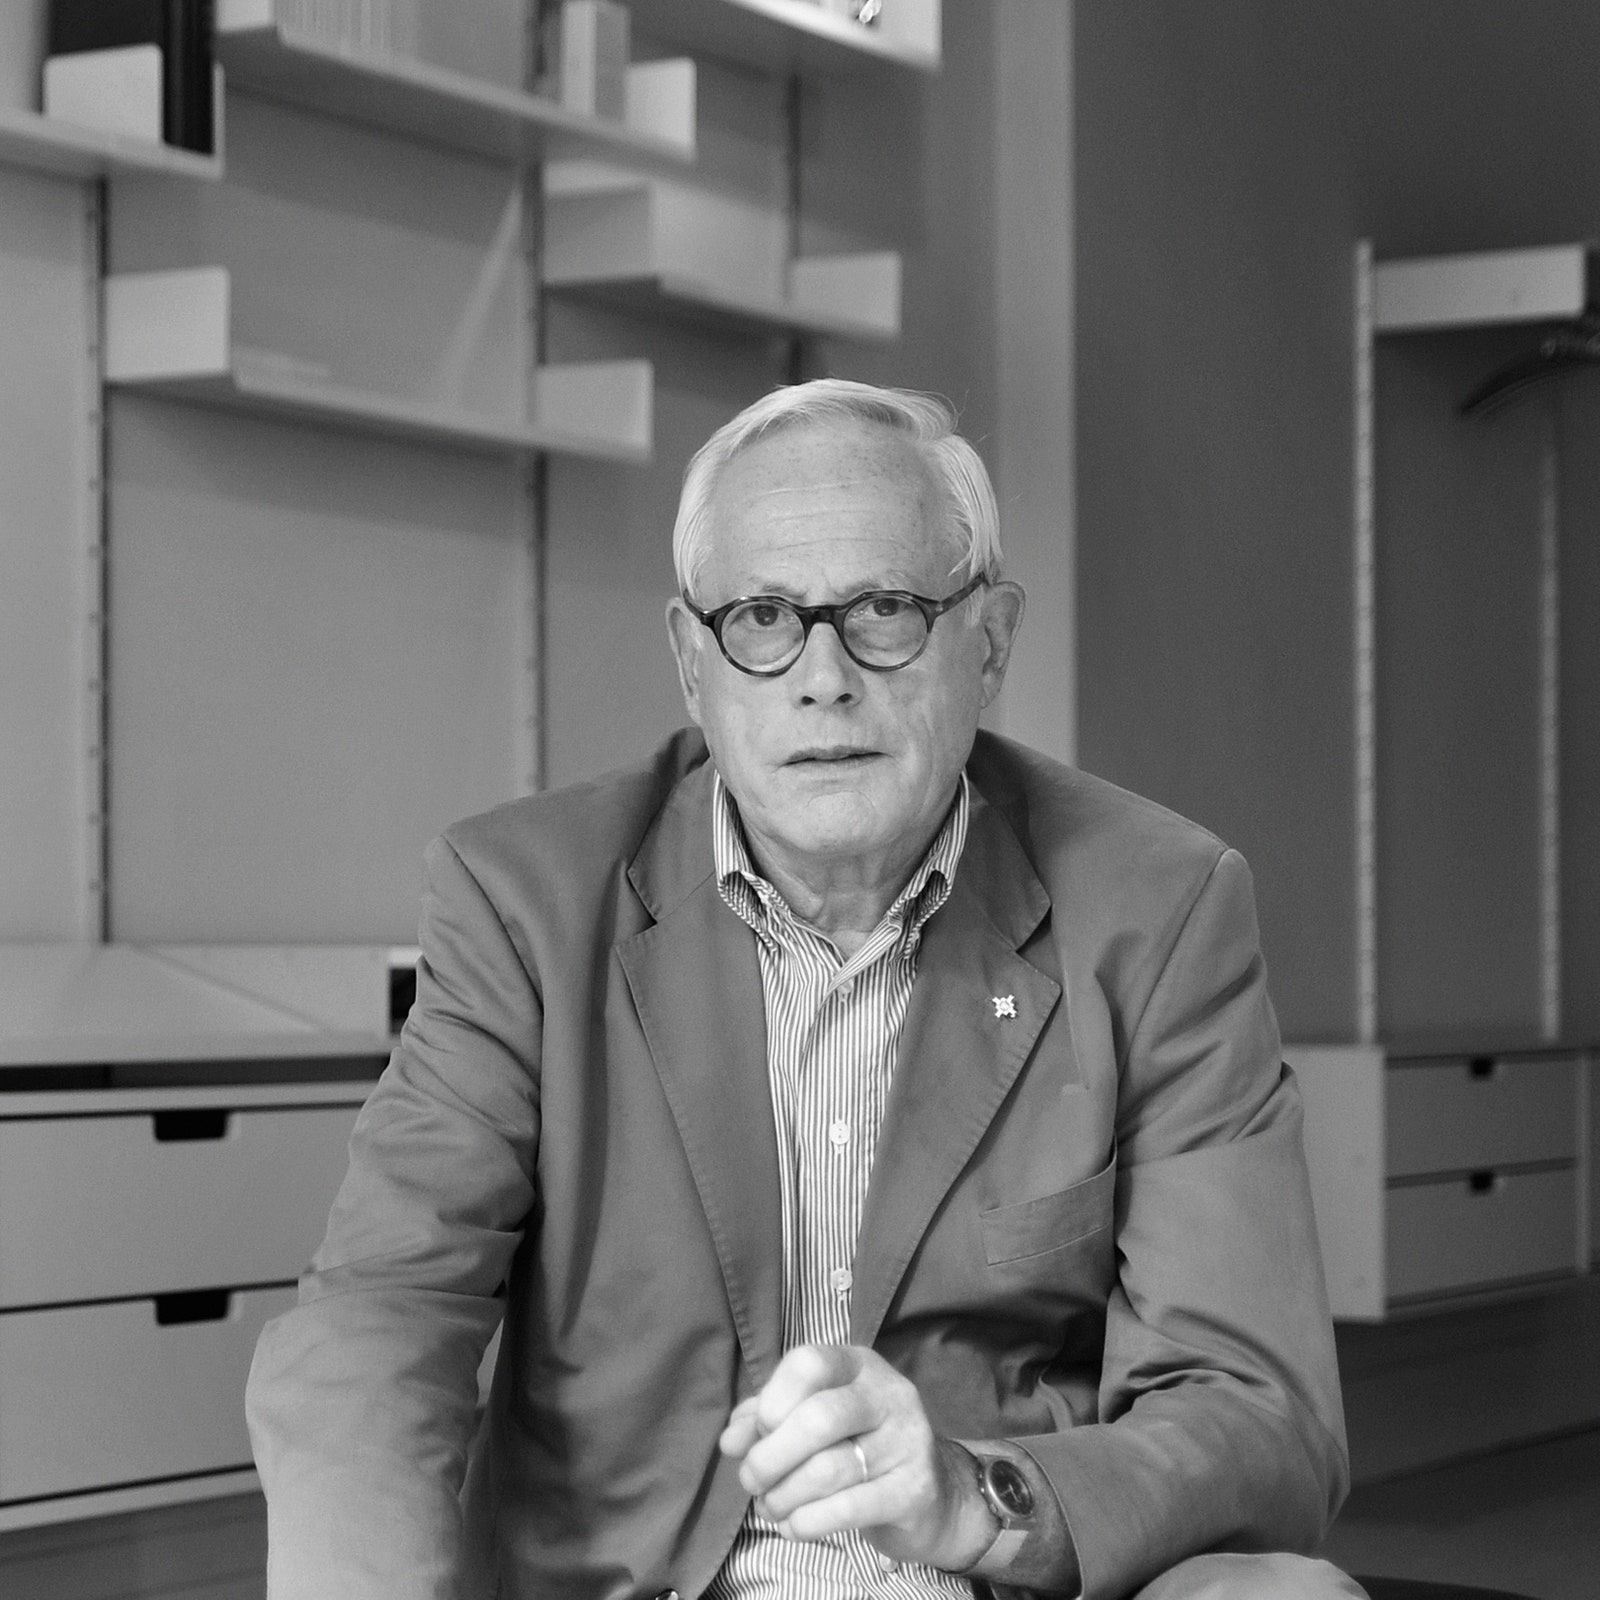
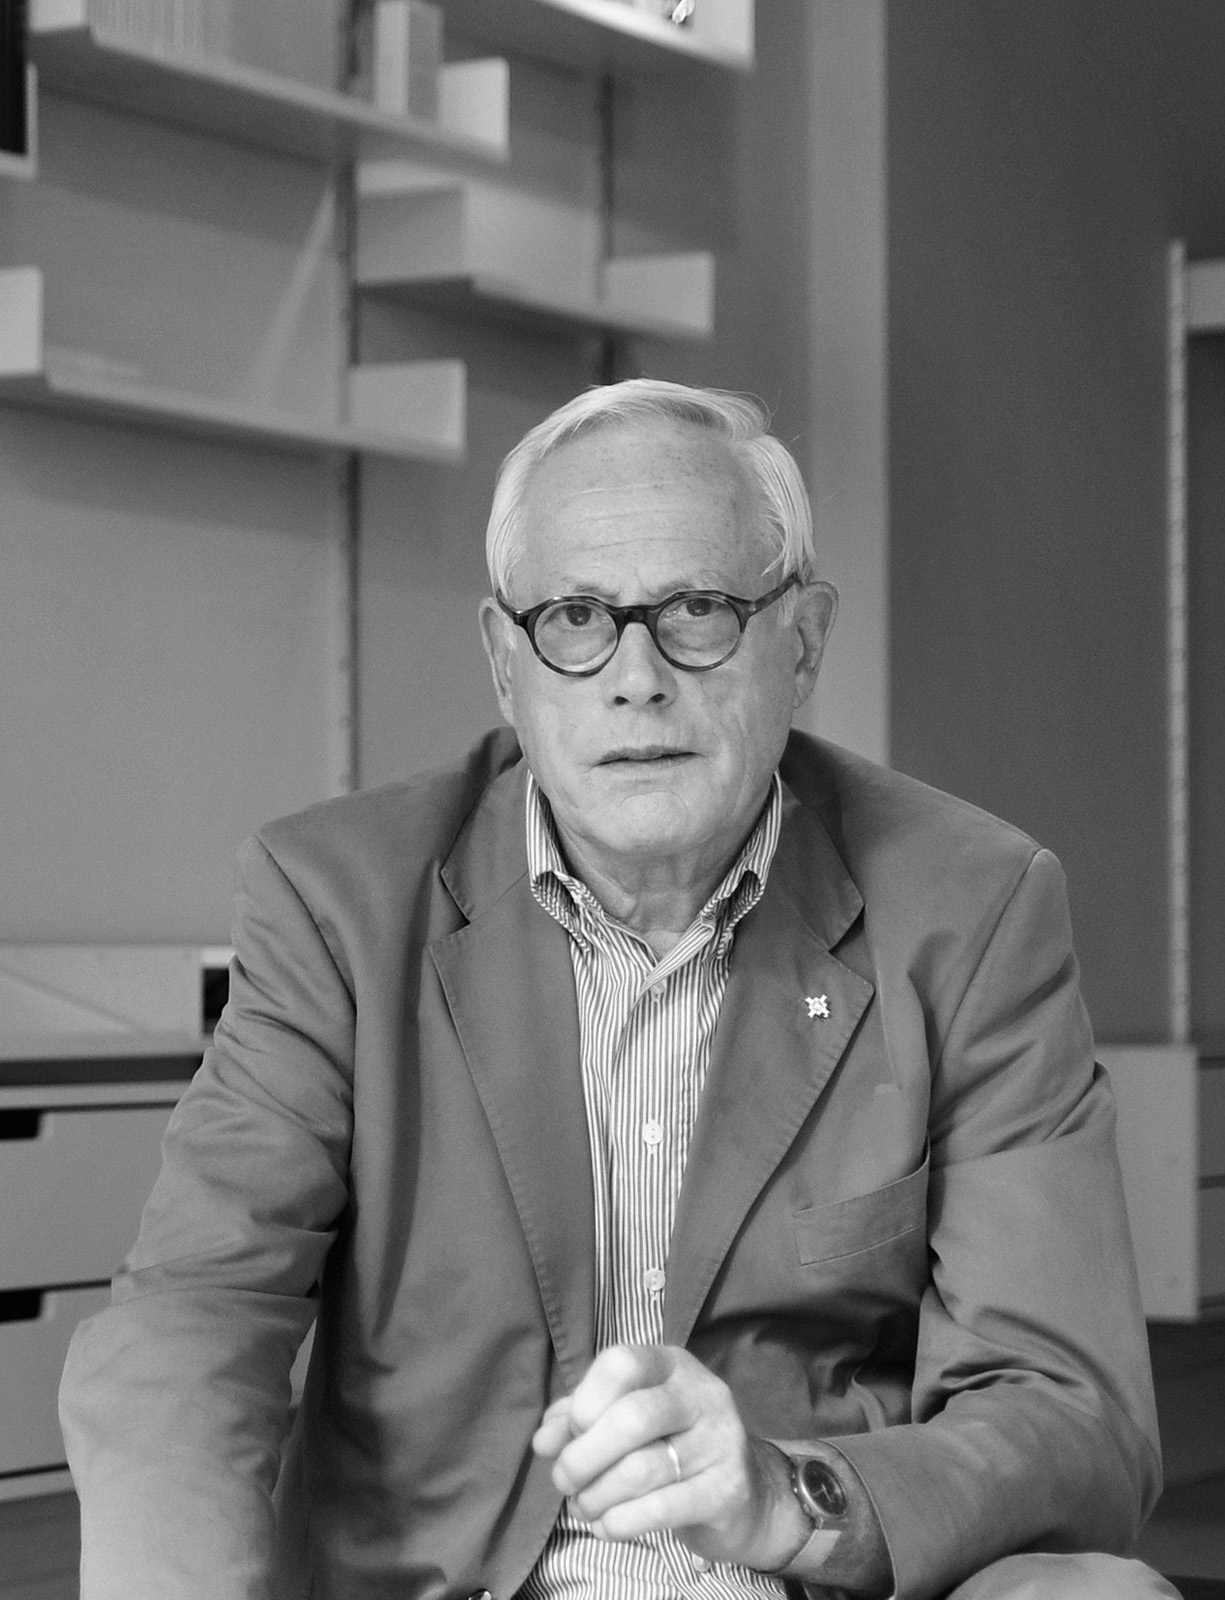
img-about change

diff --git a/assets/css/main.css b/assets/css/main.css
@@ -252,15 +252,15 @@ a {
 .about-img {
     position: fixed;
     object-fit: contain;
-    width: 40vw;
-    top: 50%;
+    height: 40vw;
+    top: 45%;
     transform: translateY(-50%);
     right: 10vw;
 }
 
 .about-txt {
     width: 35vw;
-    padding: 120px 44px;
+    padding: 120px;
 }
 
 /* AWARDS */
